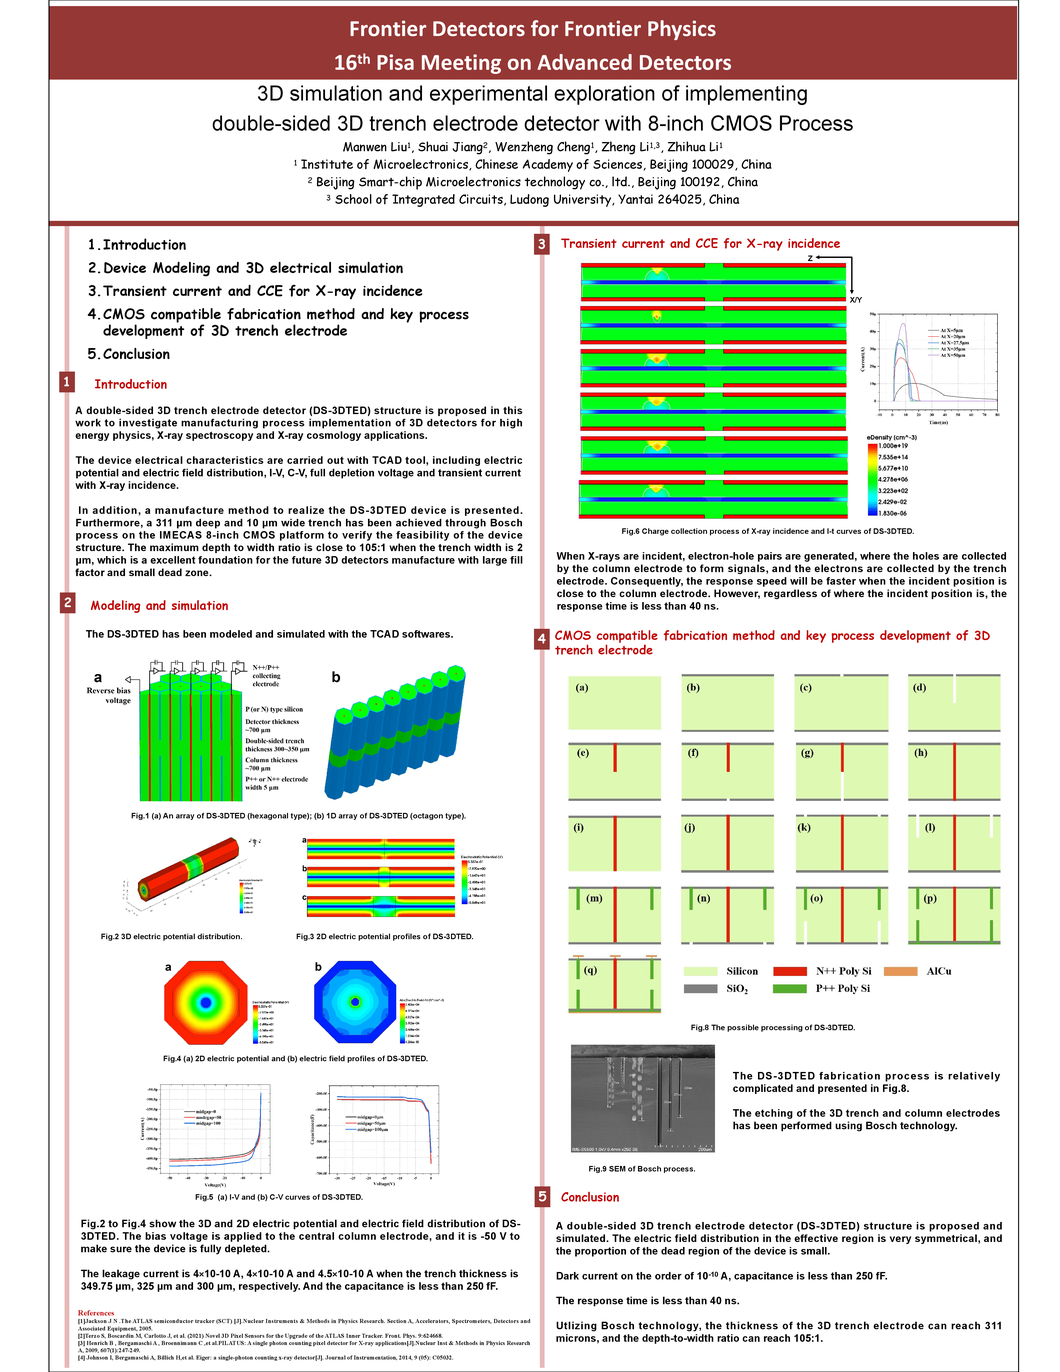
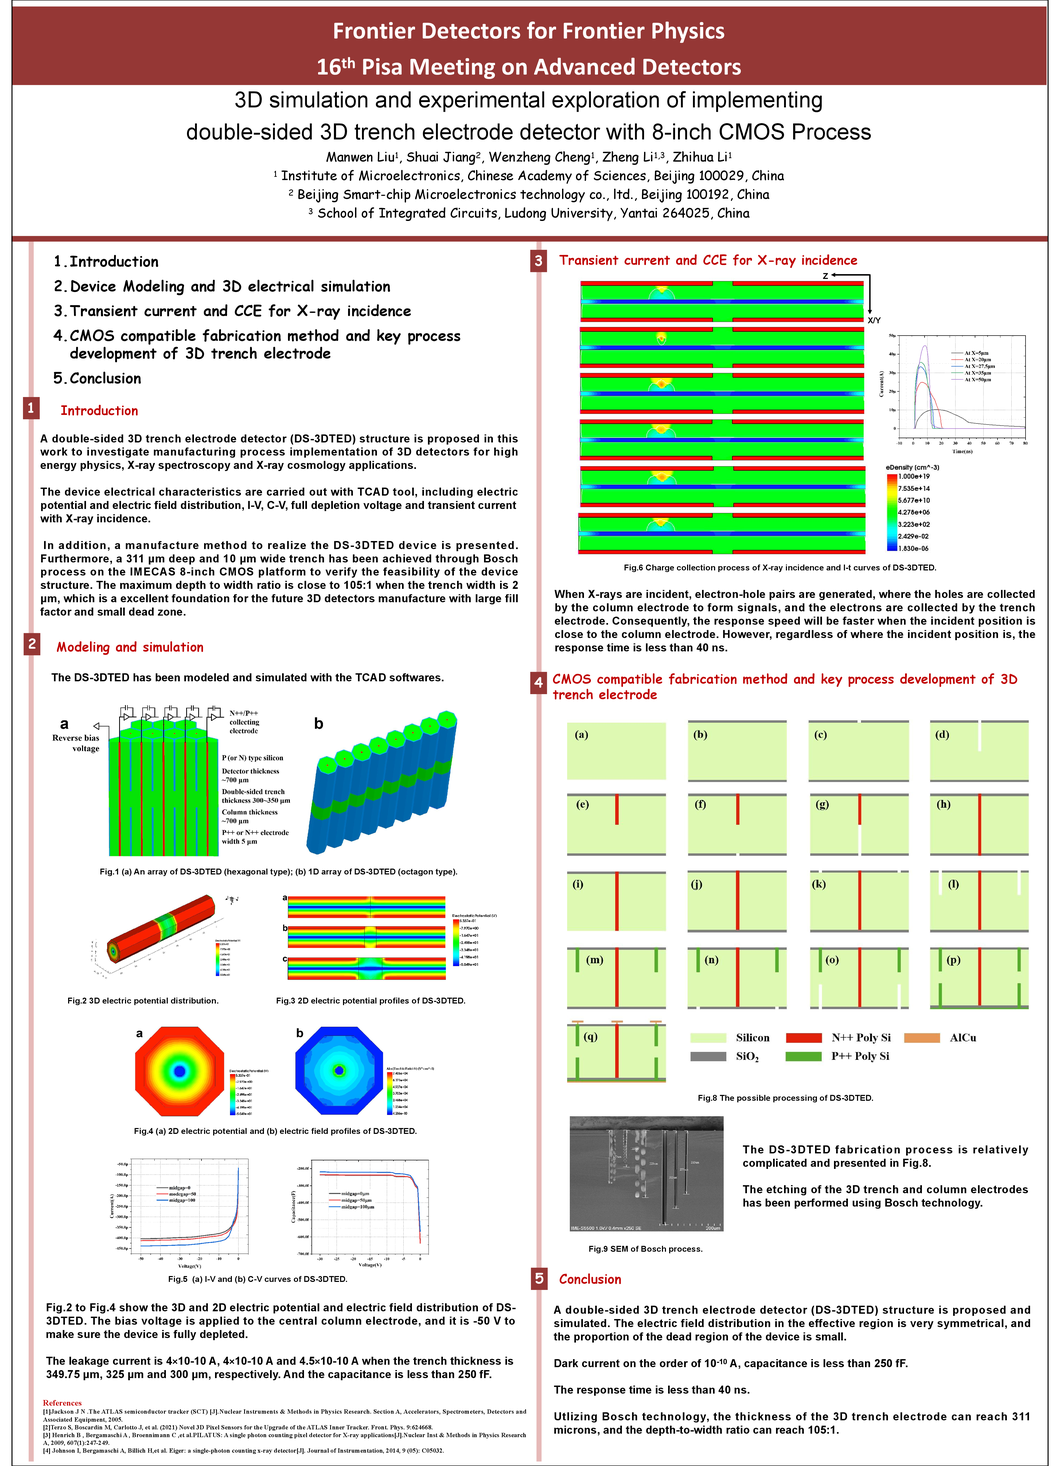
Updated

diff --git a/pisameet/raster.py b/pisameet/raster.py
@@ -126,7 +126,7 @@ def png_resize_to_height(input_file_path: str, output_file_path: str, height: in
 
 
 def png_horizontal_autocrop(input_file_path: str, output_file_path: str,
-    threshold: float = 0.99, padding=0.01, compression_level=6):
+    threshold: float = 0.99, padding=0.01, compression_level=6, max_aspect_ratio=1.525):
     """
     """
     import matplotlib.pyplot as plt
@@ -142,7 +142,14 @@ def png_horizontal_autocrop(input_file_path: str, output_file_path: str,
         edges, = np.where(np.diff(hist > threshold))
         xmin = max(edges.min() - padding, 0)
         xmax = min(edges.max() + padding + 1, width)
-        ratio = (xmax - xmin) / width
+        deltax = (xmax - xmin)
+        if height / deltax > max_aspect_ratio:
+            logger.warning(f'Cropped width ({deltax}) exceeds maximum aspect ratio')
+            pad = int(0.5 * (height / max_aspect_ratio - deltax))
+            logger.debug(f'Padding back by {pad} pixels...')
+            xmin -= pad
+            xmax += pad
+        ratio = deltax / width
         logger.debug(f'Horizontal compression ratio: {ratio:.3f}')
         bbox = (xmin, 0, xmax, height)
         logger.debug(f'Target bounding box: {bbox}')
